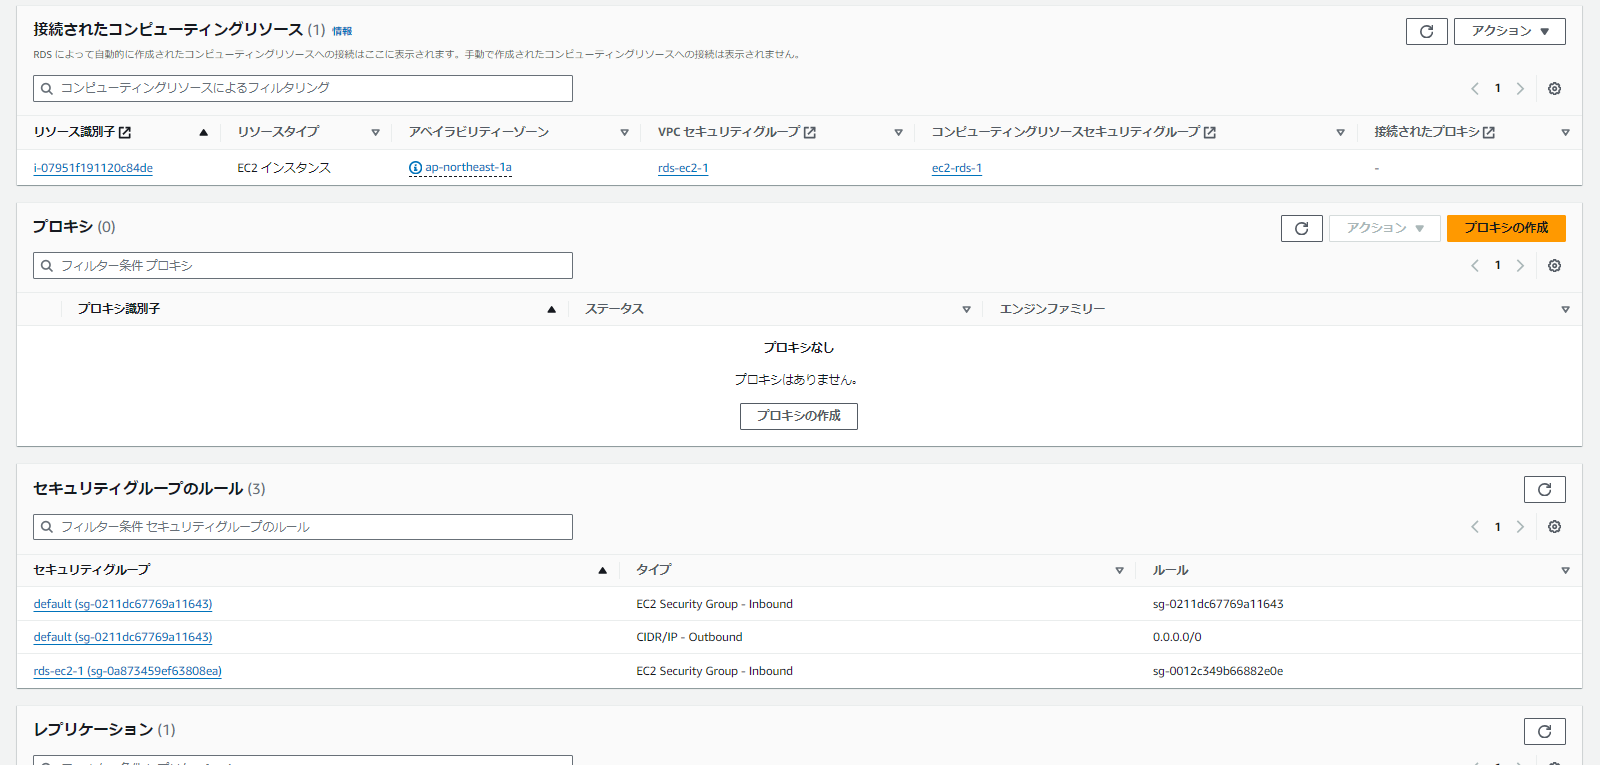
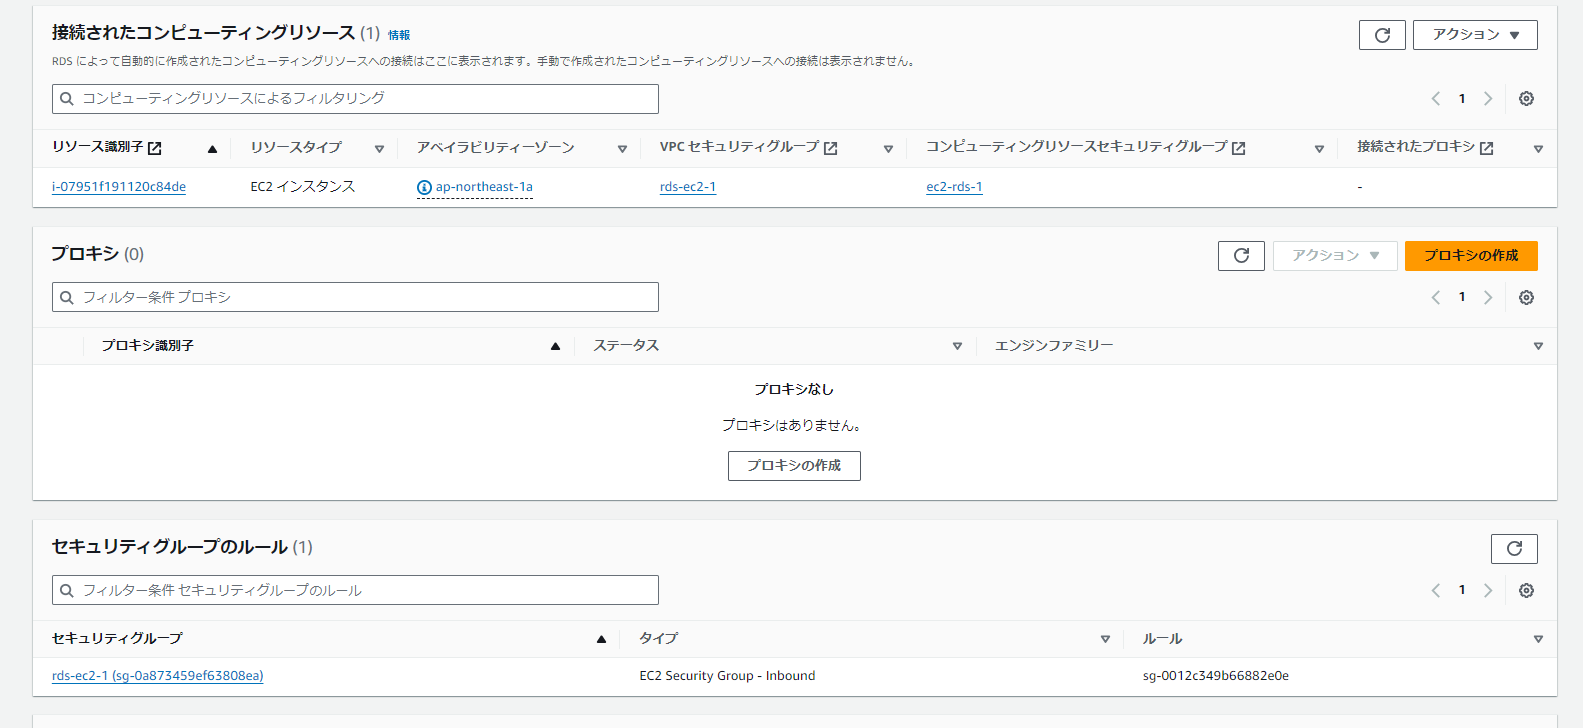
RDSのセキュリティグループにデフォルトが含まれていたのを削除し、証跡としてのスクショ

diff --git a/lecture04.md b/lecture04.md
@@ -16,8 +16,13 @@
 
 ![image6](/images04/RDSの構築②.png) 
 
+## RDSのセキュリティグループ
+![image7](/images04/RDSのセキュリティグループ①.png) 
+
+![image8](/images04/RDSのセキュリティグループ②.png) 
+
 ## EC2への接続とEC2からRDSへの接続
-![image7](/images04/EC2への接続とEC2からRDSへの接続.png) 
+![image9](/images04/EC2への接続とEC2からRDSへの接続.png) 
 
 ### 第四回課題に取り組んでの感想
 最初はEC2への接続が上手くいかなかった原因が作成時のネットワーク関連設定の項目でVPCがデフォルトのままだったり、
